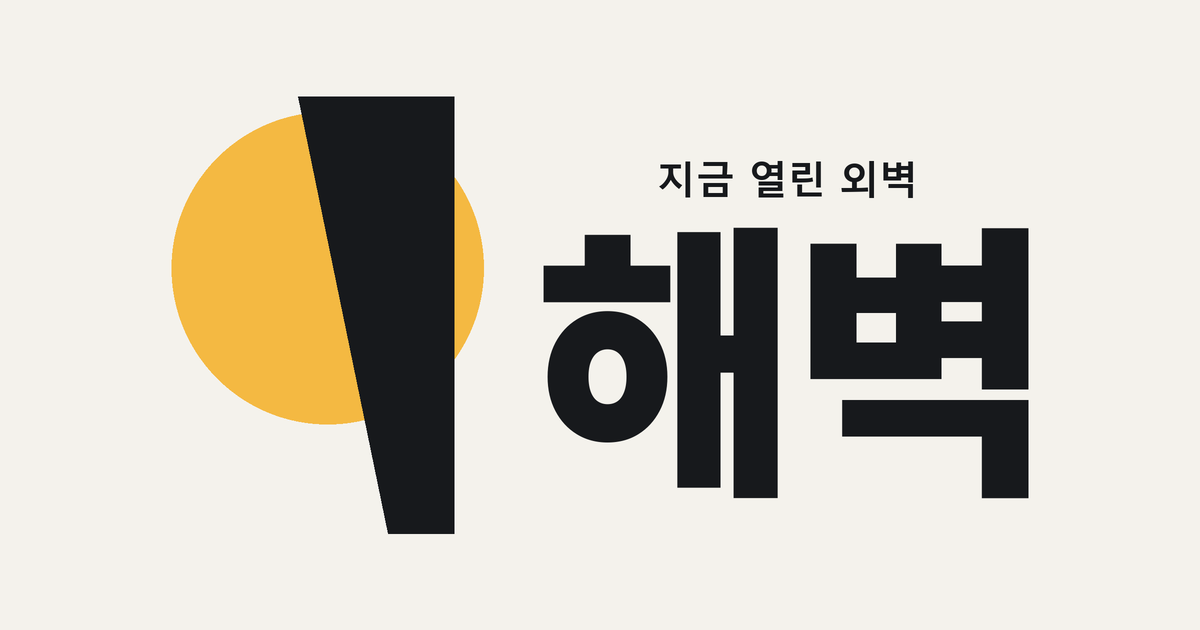
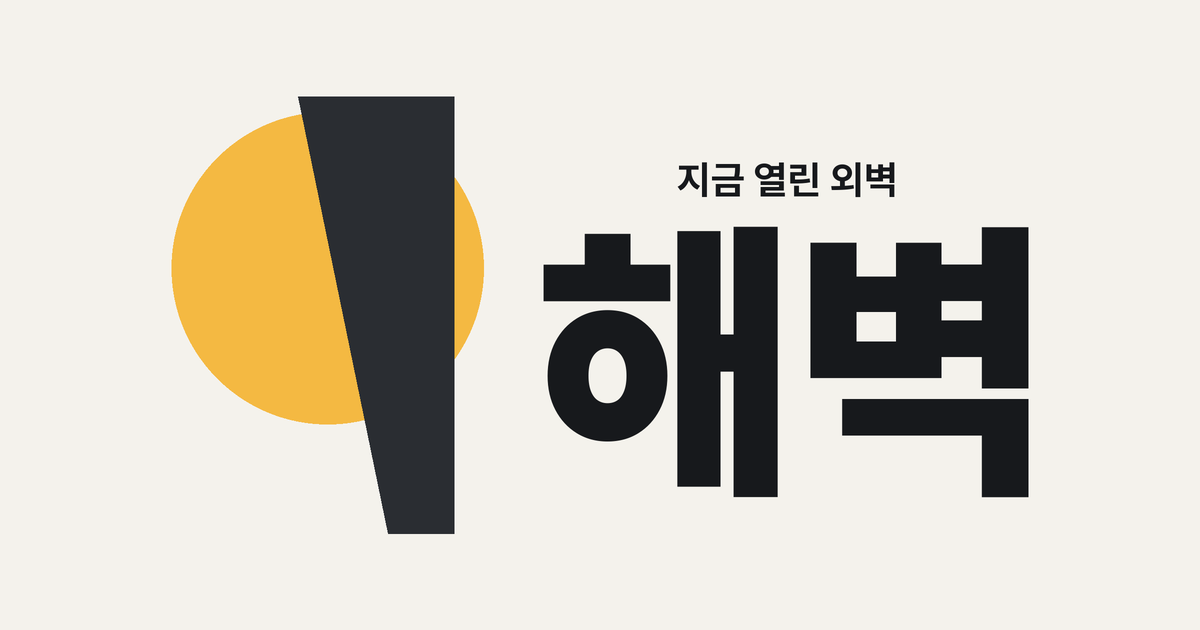
Update site: assets/, src/, index.html, manifest.webmanifest, … (+3 ~14 -1)
source: f46d8ac

diff --git a/src/invite-view.js b/src/invite-view.js
@@ -4,9 +4,11 @@ import { el } from './dom.js';
 import { ymd } from './time.js';
 import { dayText, fmtMin, sunIntervals } from './viewmodel.js';
 import { weekendDays } from './pick.js';
-import { MAX_COUNT, MAX_NOTE, TAGS, buildInviteUrl, checkMoment, cleanNote, cleanTags, headsPhrase } from './invite.js';
-import { drawInviteCard, pictureBlob, saveFile } from './share-image.js';
+import { CHAT_URL_RE } from './store.js';
+import { MAX_COUNT, MAX_NOTE, TAGS, buildInviteUrl, checkMoment, cleanNote, cleanTags, headsPhrase, inviteText } from './invite.js';
+import { drawInviteCard, pictureBlob, saveFile, shareInvite, shareSay } from './share-image.js';
 import { KAKAO_SAY, kakaoPayload, loadKakao, shareKakao } from './kakao-share.js';
+import { initialInviteState, nextInviteState } from './invite-state.js';
 import { openIntervals } from './hours.js';
 
 const $ = (id) => document.getElementById(id);
@@ -68,6 +70,7 @@ export function createInviteView({ getWalls }) {
     check.replaceChildren();
     if (!valid) {
       check.append('날짜와 시간을 골라 주세요.');
+      $('inv-preview').textContent = '';
       picture = null;
       redraw();
       return;
@@ -100,81 +103,145 @@ export function createInviteView({ getWalls }) {
       tags: [...kinds, headsPhrase(f.n, f.kind)].filter(Boolean), note: cleanNote(f.note),
       made: `${ymd(now)} ${fmtMin(now.getHours() * 60 + now.getMinutes())}`.replace(/-/g, '.'), // 2026.10.08 14:32
     };
+    $('inv-preview').textContent = inviteText({
+      name: wall.name, ...f, sunLine, caution,
+      chatUrl: CHAT_URL_RE.test(wall.contact?.chat_url ?? '') ? wall.contact.chat_url : null,
+      url: buildInviteUrl(location.href, { name: wall.name, ...f }),
+    });
     redraw();
   }
   for (const name of ['date', 'time', 'n', 'note']) form.elements[name].addEventListener('input', update);
 
-  // Both pictures are drawn ahead, 0.8 s after the last change: the 9:16 one is shown under the button (long-press or the icon saves
-  // it for a story), the 3:4 card goes to KakaoTalk with the link. A picture of older values is never sent: the key is everything
-  // it draws, and the button stays off until the picture matches the current values.
+  // The picture is drawn ahead, 0.8 s after the last change; 저장 fixes it for the values at that moment (invite-state.js).
+  // Only then do 그림으로 공유 and 그림 저장 work, and they hand over a Blob that is already there: nothing is awaited in the tap
+  // (a wait between the tap and navigator.share or the download makes the browser refuse them). A picture of older values is
+  // never sent or shown: the key is everything it draws.
   const pic = $('inv-pic');
   const picImg = $('inv-pic-img');
+  const saveBtn = $('inv-save');
   const kakaoBtn = $('inv-kakao');
-  let ready = null; // { key, blob, url, card }: the last picture drawn (card: the 3:4 one for KakaoTalk, or null)
+  const gated = [$('inv-image'), $('inv-dl')];
+  const why = $('inv-why');
+  let st = initialInviteState();
+  let ready = null; // { key, blob, url, card }: the last picture drawn for the current values (card: the 3:4 one for KakaoTalk, or null)
   let kakao = null; // the SDK once loaded and initialised; null while loading or when it cannot load
   let kakaoOff = false; // it failed to load: the button stays off with a reason
-  const uploaded = {}; // { key, url }: the card last uploaded to Kakao, reused for the same picture
+  const uploaded = {}; // { key, url }: the card last uploaded to Kakao, reused for the same saved invite
   let drawTimer;
+  let drawingKey = null;
   const keyOf = () => (picture && !past ? JSON.stringify(picture) : null);
   const ERR = { past: '이미 지난 시각이에요. 날짜나 시간을 바꿔 주세요.', empty: '날짜와 시간을 골라 주세요.' };
-  const feedback = (msg) => { say.textContent = msg; }; // cleared by the next change (update)
-  function render() {
-    const key = keyOf();
-    const fresh = !!key && ready?.key === key;
-    kakaoBtn.setAttribute('aria-disabled', String(!(fresh && kakao && ready.card)));
+  function render(was) {
+    const { phase } = st;
+    saveBtn.disabled = phase === 'making';
+    // 만드는 동안은 글자 대신 돌아가는 표시만 (스크린리더에는 aria-label 로 알림)
+    if (phase === 'making') {
+      saveBtn.replaceChildren(Object.assign(document.createElement('span'), { className: 'inv-spin' }));
+      saveBtn.querySelector('.inv-spin').setAttribute('aria-hidden', 'true');
+      saveBtn.setAttribute('aria-label', '그림을 확정하는 중이에요');
+    } else {
+      saveBtn.textContent = '저장';
+      saveBtn.removeAttribute('aria-label');
+    }
+    saveBtn.setAttribute('aria-busy', String(phase === 'making'));
+    for (const b of gated) b.setAttribute('aria-disabled', String(phase !== 'done'));
+    kakaoBtn.setAttribute('aria-disabled', String(phase !== 'done' || !kakao || !ready?.card));
     $('inv-kakao-note').textContent = kakaoOff ? KAKAO_SAY.unavailable : '그림은 카카오 서버에 올라가요.';
-    pic.hidden = !ready || !key;
-    pic.classList.toggle('stale', !fresh);
-    if (ready && key) {
+    why.hidden = phase === 'done';
+    pic.hidden = phase !== 'done';
+    if (phase === 'done') {
       if (picImg.src !== ready.url) picImg.src = ready.url;
       picImg.alt = `같이 가요 그림: ${picture.name}, ${picture.date} ${picture.time}`;
-    }
+      if (was !== 'done') feedback('저장했어요. 이제 공유할 수 있어요.');
+    } else if (phase === 'making') feedback('');
+    else if (st.err) feedback(ERR[st.err]);
+    else if (was === 'done') feedback('내용을 바꿨어요. 저장을 눌러 주세요.');
+  }
+  function dispatch(event) {
+    const was = st.phase;
+    st = nextInviteState(st, event);
+    render(was);
   }
   function drawSoon(ms) {
     clearTimeout(drawTimer);
     const key = keyOf();
     if (!key || ready?.key === key) return;
     drawTimer = setTimeout(async () => {
+      drawingKey = key;
       const drawn = picture;
       const blob = await pictureBlob(drawn).catch(() => null);
       const card = blob && await pictureBlob(drawn, drawInviteCard).catch(() => null); // a card that fails only turns KakaoTalk off
+      if (drawingKey === key) drawingKey = null;
       if (key !== keyOf()) return; // changed meanwhile: a newer draw is on its way, this one is dropped
-      if (!blob) return feedback('그림을 만들지 못했어요. 잠시 뒤 다시 해 주세요.');
+      if (!blob) {
+        const wasMaking = st.phase === 'making';
+        dispatch({ type: 'failed', key });
+        if (wasMaking) feedback('그림을 만들지 못했어요. 공유하기나 문구 복사로 보내 주세요.');
+        return;
+      }
       if (ready) URL.revokeObjectURL(ready.url);
       ready = { key, blob, url: URL.createObjectURL(blob), card };
-      render();
+      dispatch({ type: 'drawn', key });
     }, ms);
   }
   const redraw = () => {
-    render();
-    drawSoon(800);
+    dispatch({ type: 'change', key: keyOf() });
+    drawSoon(st.phase === 'making' ? 0 : 800);
   };
 
-  // no await before saveFile: the tap's permission to download must still hold
-  $('inv-pic-save').addEventListener('click', () => {
-    if (!ready || ready.key !== keyOf()) return;
+  const feedback = (msg) => { say.textContent = msg; }; // cleared by the next change (update)
+  async function send(viaSheet) {
+    if (past) return feedback('이미 지난 시각이에요. 날짜나 시간을 바꿔 주세요.');
+    const text = $('inv-preview').textContent;
+    if (!text) return feedback('날짜와 시간을 골라 주세요.');
+    try {
+      if (viaSheet && navigator.share && matchMedia('(pointer: coarse)').matches) {
+        await navigator.share({ text });
+        return;
+      }
+      await navigator.clipboard.writeText(text);
+      feedback('문구를 복사했어요. 메신저에 붙여 넣어 보내세요.');
+    } catch (e) {
+      if (e?.name !== 'AbortError') prompt('문구를 복사하세요', text); // no clipboard (http, denied); AbortError = sheet closed
+    }
+  }
+  $('inv-share').addEventListener('click', () => send(true));
+  $('inv-copy').addEventListener('click', () => send(false));
+  saveBtn.addEventListener('click', () => {
+    dispatch({ type: 'save', key: keyOf(), past });
+    if (st.phase === 'making' && drawingKey !== st.key) drawSoon(0);
+  });
+  // no await before shareInvite or saveFile: the tap's permission to share or download must still hold
+  const needSave = () => st.phase !== 'done' && (feedback('먼저 저장을 눌러 주세요.'), true);
+  $('inv-image').addEventListener('click', () => {
+    if (needSave()) return;
+    const { via, done } = shareInvite(ready.blob, $('inv-preview').textContent);
+    if (via === 'share') feedback('공유 창을 열었어요.');
+    const key = ready.key;
+    done.then((r) => { if (key === keyOf() && st.phase === 'done') feedback(shareSay(r)); });
+  });
+  $('inv-dl').addEventListener('click', () => {
+    if (needSave()) return;
     saveFile(ready.blob);
-    feedback('그림을 저장했어요(갤러리의 “다운로드” 앨범).');
+    feedback('그림을 저장했어요(갤러리의 “다운로드” 앨범). 문구는 복사하지 않았어요.');
   });
 
-  // 카카오톡 공유하기: the 3:4 card drawn for these values is uploaded (once per picture) and sent as a feed message with the
+  // 카카오톡으로 보내기: the card saved with the invite is uploaded (once per saved invite) and sent as a feed message with the
   // invite link. Only the upload is awaited; nothing is drawn here.
   kakaoBtn.addEventListener('click', async () => {
     if (!kakao) return feedback(kakaoOff ? KAKAO_SAY.unavailable : '카카오톡 공유를 불러오는 중이에요. 잠시 뒤 다시 눌러 주세요.');
-    const now = keyOf();
-    if (!now) return feedback(past ? ERR.past : ERR.empty);
-    if (ready?.key !== now) return feedback('그림을 만드는 중이에요. 잠시 뒤 다시 눌러 주세요.');
+    if (needSave()) return;
     if (!ready.card) return feedback(KAKAO_SAY.unavailable);
     const { key, card } = ready;
     const shown = picture;
     const url = buildInviteUrl(location.href, { name: wall.name, ...fields() });
     if (uploaded.key !== key) feedback('그림을 카카오 서버에 올리는 중이에요…');
     const r = await shareKakao(kakao, { key, blob: card, build: (imageUrl) => kakaoPayload({ picture: shown, url, imageUrl }) }, uploaded);
-    if (key === keyOf()) feedback(r.ok ? KAKAO_SAY.ok : KAKAO_SAY[r.why]);
+    if (key === keyOf() && st.phase === 'done') feedback(r.ok ? KAKAO_SAY.ok : KAKAO_SAY[r.why]);
   });
   function startKakao() {
     if (kakao) return;
-    loadKakao().then((K) => { kakao = K; kakaoOff = false; }, () => { kakaoOff = true; }).then(render);
+    loadKakao().then((K) => { kakao = K; kakaoOff = false; }, () => { kakaoOff = true; }).then(() => render(st.phase));
   }
 
   function openInvite(name) {
@@ -185,12 +252,12 @@ export function createInviteView({ getWalls }) {
     for (const b of kindBtns) b.setAttribute('aria-pressed', String(b.dataset.kind === 'look'));
     for (const b of tagBox.children) b.setAttribute('aria-pressed', 'false');
     form.reset();
-    if (ready) { URL.revokeObjectURL(ready.url); ready = null; }
     const first = weekendDays(new Date())[0].date; // the nearest weekend day, 14:00: a sensible start to change
     form.elements.date.min = ymd(new Date());
     form.elements.date.value = ymd(first);
     form.elements.time.value = '14:00';
     $('inv-wall').textContent = wall.name; // read-only text
+    dispatch({ type: 'open' });
     update();
     dlg.showModal();
     startKakao(); // the SDK loads only when the sheet is first opened, never with the page

diff --git a/index.html b/index.html
@@ -7,6 +7,7 @@
   <meta name="color-scheme" content="light dark">
   <!-- 내 정보 › 화면 (라이트/다크) before the first paint; app.js keeps it in sync afterwards -->
   <script>try { const t = JSON.parse(localStorage.getItem('open-wall:ui'))?.theme; if (t === 'light' || t === 'dark') document.documentElement.dataset.theme = t; } catch {}</script>
+  <script src="src/boot-theme.js"></script><!-- 자동 + 마지막에 밤이었으면 로딩 화면도 다크로 (CSP: 외부 파일이라 해시 불필요) -->
   <title>해벽 · 지금 열린 외벽</title>
   <meta name="description" content="지금 열린 실외암벽을 시간표로, 양달·응달까지 한눈에 볼 수 있어요.">
   <link rel="icon" href="assets/favicon.svg" type="image/svg+xml">
@@ -28,6 +29,10 @@
   <link rel="stylesheet" href="style.css">
 </head>
 <body>
+  <div id="boot" role="status" aria-label="해벽 · 지금 열린 외벽 불러오는 중">
+    <img class="lt" src="assets/haebyeok-lockup-vertical.svg" alt="" width="252" height="524">
+    <img class="dk" src="assets/haebyeok-lockup-vertical-dark.svg" alt="" width="252" height="524">
+  </div>
   <noscript><p class="wrap">자바스크립트를 켜야 볼 수 있어요.</p></noscript>
   <header class="top">
     <div class="wrap">
@@ -372,17 +377,28 @@
           <label class="inv-field"><span class="sh-label">한마디</span><input type="text" name="note" autocomplete="off" placeholder="예) 초보 환영해요"></label>
           <p class="sh-hint">전화번호, 링크, 이메일은 지워져요. 연락은 대화방에서 해 주세요.</p>
         </fieldset>
+        <div class="sh-row inv-prev">
+          <span class="sh-label">보낼 문구</span>
+          <pre class="inv-preview" id="inv-preview"></pre>
+          <p class="sh-hint">받는 사람이 링크를 열면 그 시각 기준으로 카드가 열려요.</p>
+        </div>
         <p class="inv-say" id="inv-say" role="status"></p>
-        <button type="button" class="inv-send inv-kakao" id="inv-kakao" aria-disabled="true" aria-describedby="inv-kakao-note">카카오톡 공유하기</button>
+        <div class="inv-actions">
+          <button type="button" class="inv-send" id="inv-share">공유하기</button>
+          <button type="button" class="inv-copy" id="inv-copy">문구 복사</button>
+        </div>
+        <p class="sh-hint inv-link-hint">링크만 보내도 암장 미리보기가 떠요. 그림은 약속 시각까지 보여 주고 싶을 때 쓰세요.</p>
+        <button type="button" class="inv-save" id="inv-save">저장</button>
+        <p class="sh-hint inv-why" id="inv-why">먼저 저장을 눌러 주세요.</p>
+        <div class="inv-actions">
+          <button type="button" class="inv-image" id="inv-image" aria-describedby="inv-why">그림으로 공유</button>
+          <button type="button" class="inv-image" id="inv-dl" aria-describedby="inv-why">그림 저장</button>
+        </div>
+        <button type="button" class="inv-image inv-kakao" id="inv-kakao" aria-disabled="true" aria-describedby="inv-why inv-kakao-note">카카오톡으로 보내기</button>
         <p class="sh-hint inv-kakao-note" id="inv-kakao-note">그림은 카카오 서버에 올라가요.</p>
         <figure class="inv-pic" id="inv-pic" hidden>
-          <div class="inv-pic-box">
-            <img id="inv-pic-img" alt="" width="1080" height="1920">
-            <button type="button" class="inv-pic-save" id="inv-pic-save" aria-label="스토리용 그림 저장" title="그림 저장">
-              <svg viewBox="0 0 24 24" width="22" height="22" fill="none" stroke="currentColor" stroke-width="2" stroke-linecap="round" stroke-linejoin="round" aria-hidden="true"><path d="M12 4v11"/><path d="m7 11 5 5 5-5"/><path d="M5 20h14"/></svg>
-            </button>
-          </div>
-          <figcaption>스토리용 그림이에요. 길게 눌러 저장하거나 오른쪽 아래 아이콘을 누르세요.</figcaption>
+          <img id="inv-pic-img" alt="" width="1080" height="1920">
+          <figcaption>보낼 그림이에요. 저장이 안 되면 그림을 길게 눌러 저장하세요.</figcaption>
         </figure>
       </form>
     </dialog>

diff --git a/style.css b/style.css
@@ -1143,23 +1143,19 @@ td[aria-selected="true"] > .cal-day { background: color-mix(in srgb, var(--open)
 .inv-say { min-height: 1.4em; margin: 0; padding-top: 6px; color: var(--accent); font-size: var(--fs-sm); font-weight: 600; }
 .inv-actions { display: grid; grid-template-columns: 1.4fr 1fr; gap: 8px; }
 .inv-send, .inv-copy, .inv-image { min-height: var(--tap); border-radius: var(--radius); font: inherit; font-weight: 700; }
-.inv-send { display: block; width: 100%; border: 0; background: var(--accent); color: var(--on-accent); }
+.inv-send { border: 0; background: var(--accent); color: var(--on-accent); }
 .inv-copy, .inv-image { border: 1px solid var(--line-strong); background: transparent; color: var(--fg); white-space: nowrap; }
 .inv-save { display: block; width: 100%; min-height: var(--tap); margin-top: 8px; border: 0; border-radius: var(--radius); background: var(--accent); color: var(--on-accent); font: inherit; font-weight: 700; white-space: nowrap; }
 .inv-save:disabled { opacity: 0.6; }
 .inv-why { margin: 6px 0 0; }
 .inv-why[hidden] { display: none; }
 .inv-why + .inv-actions { margin-top: 8px; }
-.inv-kakao[aria-disabled="true"] { opacity: 0.5; }
+.inv-image[aria-disabled="true"] { opacity: 0.5; }
 .inv-kakao { display: block; width: 100%; margin-top: 8px; }
 .inv-kakao-note { margin: 6px 0 0; font-size: var(--fs-sm); }
 .inv-link-hint { margin-top: 8px; font-size: var(--fs-sm); }
 .inv-pic { margin: 10px 0 0; }
 .inv-pic[hidden] { display: none; }
-.inv-pic-box { position: relative; width: min(540px, 100%); }
-.inv-pic-box img { transition: opacity 0.15s; }
-.inv-pic.stale img { opacity: 0.4; }
-.inv-pic-save { position: absolute; right: 10px; bottom: 10px; display: grid; place-items: center; width: var(--tap); height: var(--tap); border: 0; border-radius: 50%; background: rgba(0, 0, 0, 0.6); color: #fff; }
 .inv-pic img { display: block; width: min(540px, 100%); height: auto; border: 1px solid var(--line); border-radius: var(--r-md); }
 .inv-pic figcaption { margin-top: 6px; font-size: var(--fs-sm); color: var(--muted); text-wrap: pretty; }
 :is(.inv-kind button, .inv-alt, .inv-send, .inv-copy, .inv-image, .inv-save, .ib-close, .ib-again, .inv-field input, .inv-field select):focus-visible { outline: 2px solid var(--accent); outline-offset: 2px; }
@@ -1176,3 +1172,17 @@ div.sh-row.inv-prev { display: block; } /* (a div.sh-row is a flex row elsewhere
 .inv-spin { display: inline-block; width: 1.1em; height: 1.1em; vertical-align: -0.2em; border: 2px solid currentColor; border-right-color: transparent; border-radius: 50%; }
 @media (prefers-reduced-motion: no-preference) { .inv-spin { animation: inv-spin 800ms linear infinite; } }
 @keyframes inv-spin { to { transform: rotate(360deg); } }
+
+/* loading screen: the vertical lockup (light or dark) on the app background until the first list is drawn */
+#boot { position: fixed; inset: 0; z-index: 100; display: grid; place-items: center; background: var(--bg); transition: opacity var(--dur-ui) var(--ease-out); animation: boot-out 0s 8s forwards; }
+#boot img { width: min(50vw, 252px); height: auto; margin-top: -8vh; }
+#boot .dk { display: none; }
+:root[data-theme="dark"] #boot .lt { display: none; }
+:root[data-theme="dark"] #boot .dk { display: block; }
+@media (prefers-color-scheme: dark) {
+  :root:not([data-theme="light"]) #boot .lt { display: none; }
+  :root:not([data-theme="light"]) #boot .dk { display: block; }
+}
+#boot.done { opacity: 0; pointer-events: none; }
+@keyframes boot-out { to { opacity: 0; visibility: hidden; pointer-events: none; } } /* never trap the page if the script fails */
+@media (prefers-reduced-motion: reduce) { #boot { transition: none; } }

diff --git a/src/app.js b/src/app.js
@@ -60,10 +60,12 @@ function icon(name, filled = false) {
 // ---- UI state: filters persist in localStorage (ui-state.js), location stays in memory ----
 const ui = loadUi(storage); // regions are pruned to existing ones once the list loads (syncRegions)
 const saveUi = () => storeUi(storage, ui);
-let theme = ui.theme; // what applyTheme last got: 자동 turns 'dark' while every ♥ wall is closed
+const BOOT_NIGHT = 'open-wall:boot-night'; // '1' when the last 자동 turned dark: src/boot-theme.js and the first paint use it before the list is known
+let theme = ui.theme === 'auto' && storage.getItem(BOOT_NIGHT) === '1' ? 'dark' : ui.theme; // what applyTheme last got: 자동 turns 'dark' while every ♥ wall is closed
 applyTheme(theme);
 function syncTheme() {
   const next = ui.theme === 'auto' && isNight(state.walls.filter((w) => favs.includes(w.name)), new Date()) ? 'dark' : ui.theme; // the real clock, not the picked moment
+  storage.setItem(BOOT_NIGHT, ui.theme === 'auto' && next === 'dark' ? '1' : '');
   if (next !== theme) applyTheme((theme = next));
 }
 // 기록 (log-view.js): the tab, the add sheet; list rows read a wall's records through recordsFor
@@ -1386,6 +1388,11 @@ if (sharedWall) {
 }
 syncRegions();
 render();
+{ // the loading screen (index.html #boot) leaves once the first list is drawn
+  const boot = document.getElementById('boot');
+  boot?.classList.add('done');
+  setTimeout(() => boot?.remove(), 400);
+}
 loadCrowd();
 if (sharedWall) {
   if (invite && !invite.past) goToMoment(new Date(`${invite.date}T00:00`), invite.min); // that moment, on the list

diff --git a/src/kakao-share.js b/src/kakao-share.js
@@ -52,10 +52,10 @@ export function kakaoFail(e, stage) {
 /** What the sheet says after a try (cancelled: nothing). */
 export const KAKAO_SAY = {
   ok: '카카오톡을 열었어요. 받을 사람을 골라 보내세요.',
-  unavailable: '카카오톡 공유를 쓸 수 없어요. 암장 카드의 공유하기로 링크를 보내 주세요.',
-  key: '카카오톡 공유가 이 주소에서는 막혀 있어요. 암장 카드의 공유하기로 링크를 보내 주세요.',
+  unavailable: '카카오톡 공유를 쓸 수 없어요. 그림으로 공유나 문구 복사로 보내 주세요.',
+  key: '카카오톡 공유가 이 주소에서는 막혀 있어요. 그림으로 공유나 문구 복사로 보내 주세요.',
   upload: '그림을 카카오 서버에 올리지 못했어요. 잠시 뒤 다시 눌러 주세요.',
-  send: '카카오톡을 열지 못했어요. 암장 카드의 공유하기로 링크를 보내 주세요.',
+  send: '카카오톡을 열지 못했어요. 그림으로 공유나 문구 복사로 보내 주세요.',
   cancelled: '',
 };
 

diff --git a/src/boot-theme.js b/src/boot-theme.js
@@ -1,0 +1,6 @@
+// 로딩 화면(#boot)의 라이트/다크를 첫 그림 전에 정한다. 직접 고른 화면(라이트/다크)은 index.html 위쪽 짧은 코드가 이미 처리하고,
+// 여기서는 '자동'이면서 지난번에 밤(즐겨찾기가 모두 닫힘)이라 다크였던 경우만 다룬다. 값은 src/app.js 의 BOOT_NIGHT 가 쓴다.
+try {
+  const t = JSON.parse(localStorage.getItem('open-wall:ui'))?.theme;
+  if ((t === undefined || t === 'auto') && localStorage.getItem('open-wall:boot-night') === '1') document.documentElement.dataset.theme = 'dark';
+} catch {}

diff --git a/src/share-image.js b/src/share-image.js
@@ -63,7 +63,7 @@ const image = (src) => new Promise((ok) => {
 // the horizontal lockup (mark + 해벽) with the wall in paper colour, for the dark ground
 const lockup = () => image('assets/haebyeok-lockup-dark.svg');
 
-const INK = '#17191c'; // the brand's 먹, the same as the logo's wall
+const INK = '#17191c'; // the brand's 먹 (the logo's text ink; the light-ground wall is #2a2d32)
 const PAPER = '#f4f2ec';
 const MUTED = '#9a9d98';
 const SUN = '#f4b942'; // the logo's sun: used only where the sun is meant
